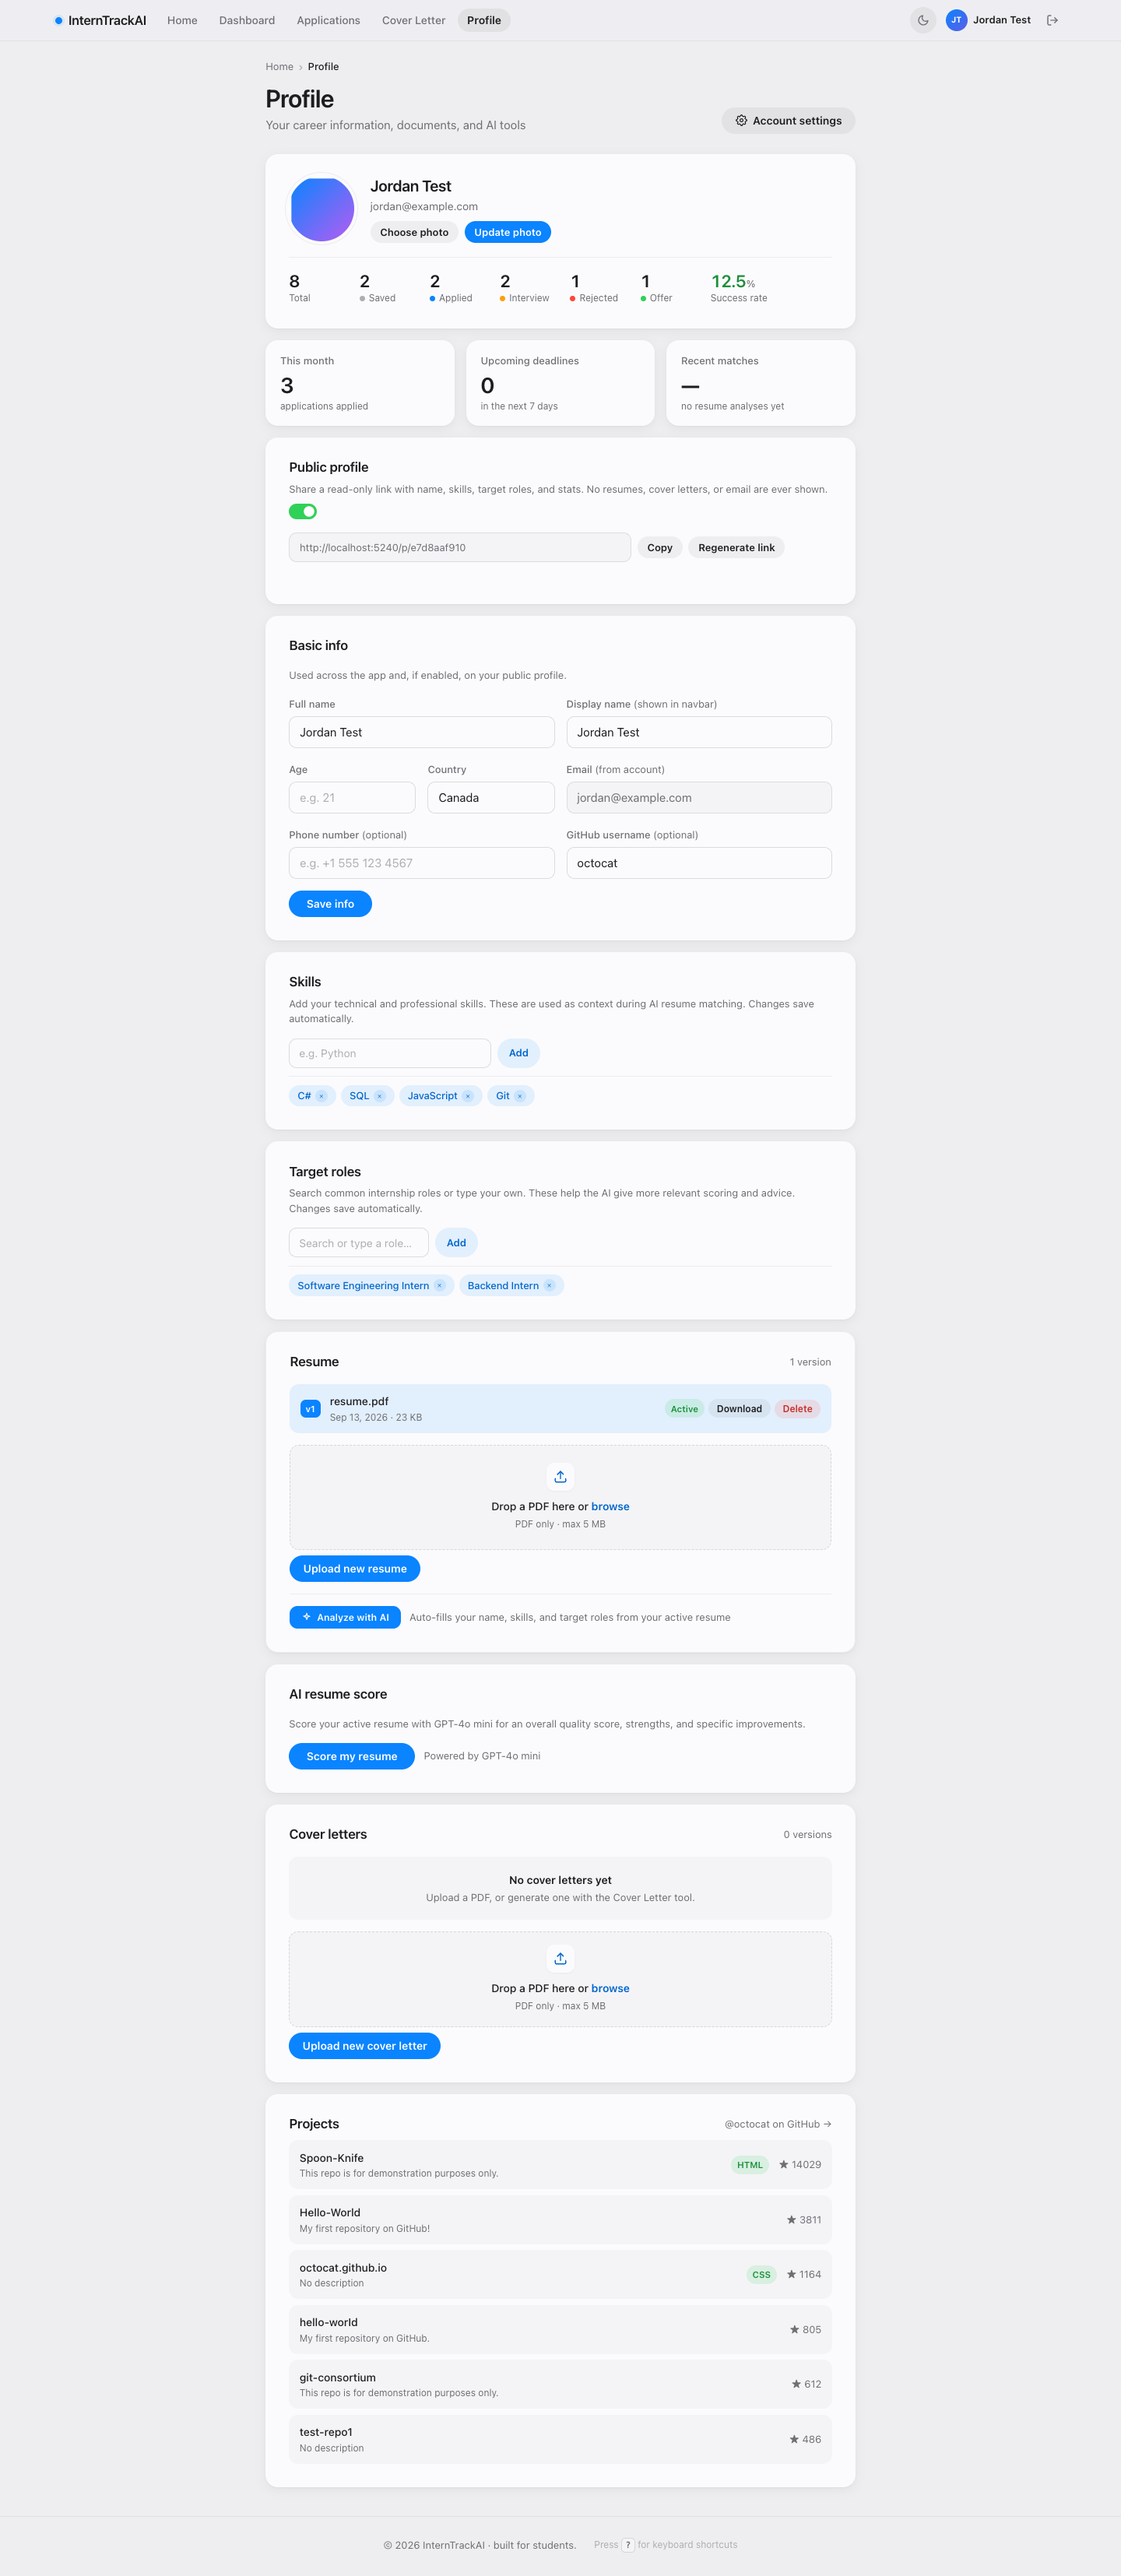
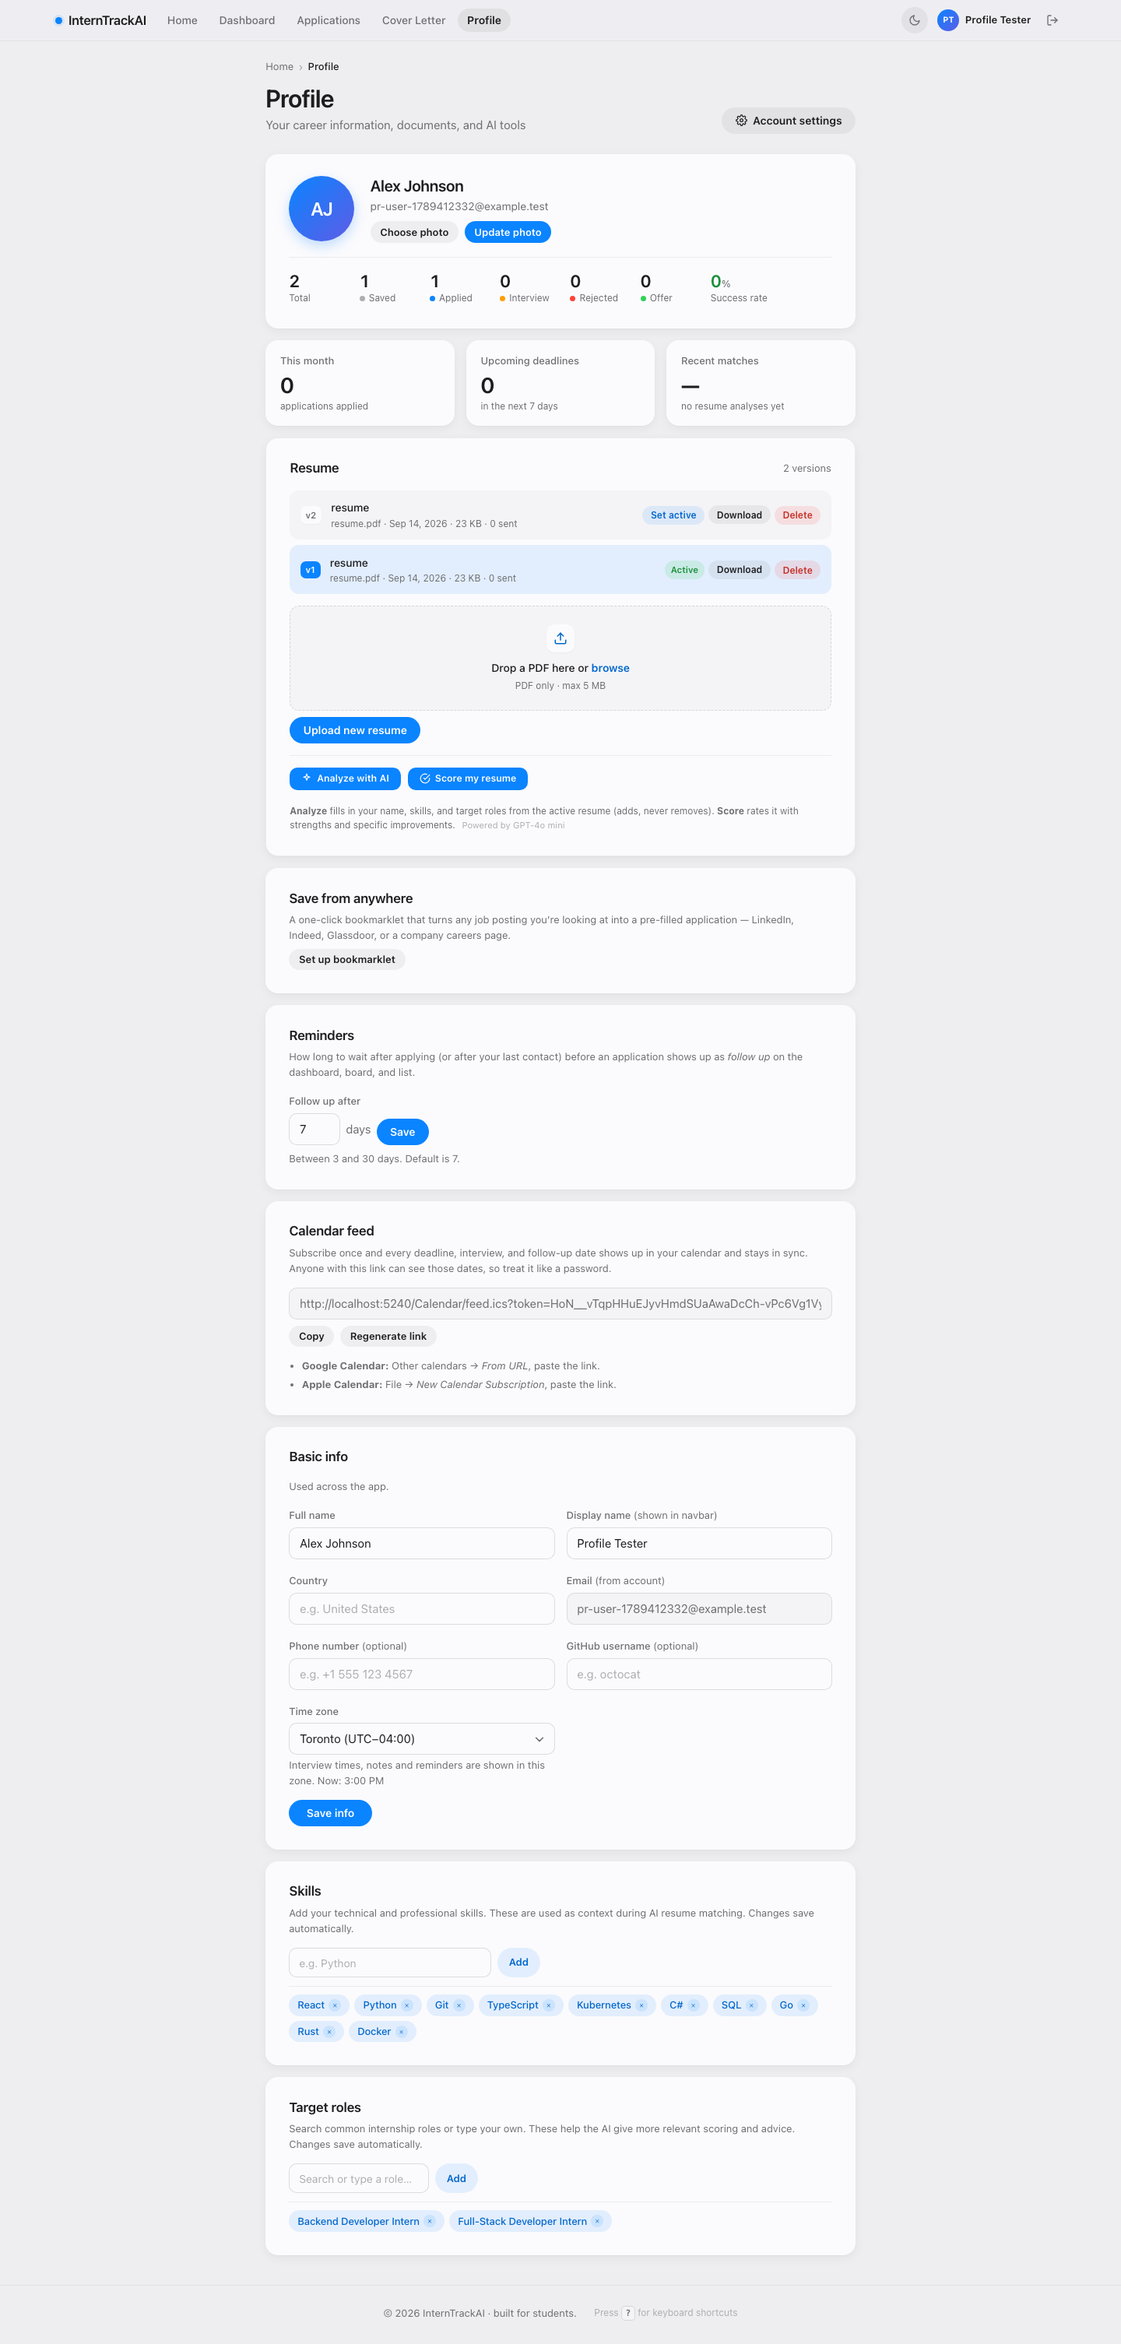
Profile restructure verification
Playwright run (50 checks) against a stubbed OpenAI endpoint: resume card
directly under the quick-stats row and before Basic info, no separate score
card, Age gone; upload → "Resume uploaded — filled in your name and added 5
skills and 2 target roles" with the pre-existing React not duplicated and the
new chips flashing; "react" when "React" exists flashes the chip, shows the
inline message, isn't added and keeps the text; paste "C#, c#, SQL" adds one
C# and SQL with a message about the duplicate; comma and blur add; manual
Analyze merges without removing; Score my resume renders inside the Resume
card with "Powered by GPT-4o mini" once; failed extraction and demo account
still upload; Create/Edit duplicate warning is case-insensitive; 375px and
dark mode; no console errors. xUnit suite: 354 passing.

ResumeScoreService now honours OpenAI:BaseUrl like the extractor and the
classifier so the score flow can be verified locally without a real key.
README profile screenshot refreshed for the new layout.

Claude-Session: https://claude.ai/code/session_01T9Kyb9iUivRGqqBgNgZ6V9

diff --git a/Services/ResumeScoreService.cs b/Services/ResumeScoreService.cs
@@ -14,6 +14,7 @@ public class ResumeScoreService
 {
     private readonly HttpClient _http;
     private readonly string _apiKey;
+    private readonly string _endpoint;   // OpenAI:BaseUrl (default api.openai.com) so local verification can stub it
     private readonly ILogger<ResumeScoreService> _logger;
 
     private static readonly JsonSerializerOptions _camel = new()
@@ -25,6 +26,7 @@ public class ResumeScoreService
     {
         _http = http;
         _apiKey = config["OpenAI:ApiKey"] ?? string.Empty;
+        _endpoint = (config["OpenAI:BaseUrl"]?.TrimEnd('/') ?? "https://api.openai.com") + "/v1/chat/completions";
         _logger = logger;
     }
 
@@ -79,7 +81,7 @@ public class ResumeScoreService
         };
 
         var json = JsonSerializer.Serialize(body, _camel);
-        using var request = new HttpRequestMessage(HttpMethod.Post, "https://api.openai.com/v1/chat/completions");
+        using var request = new HttpRequestMessage(HttpMethod.Post, _endpoint);
         request.Headers.Authorization = new AuthenticationHeaderValue("Bearer", _apiKey);
         request.Content = new StringContent(json, Encoding.UTF8, "application/json");
 
